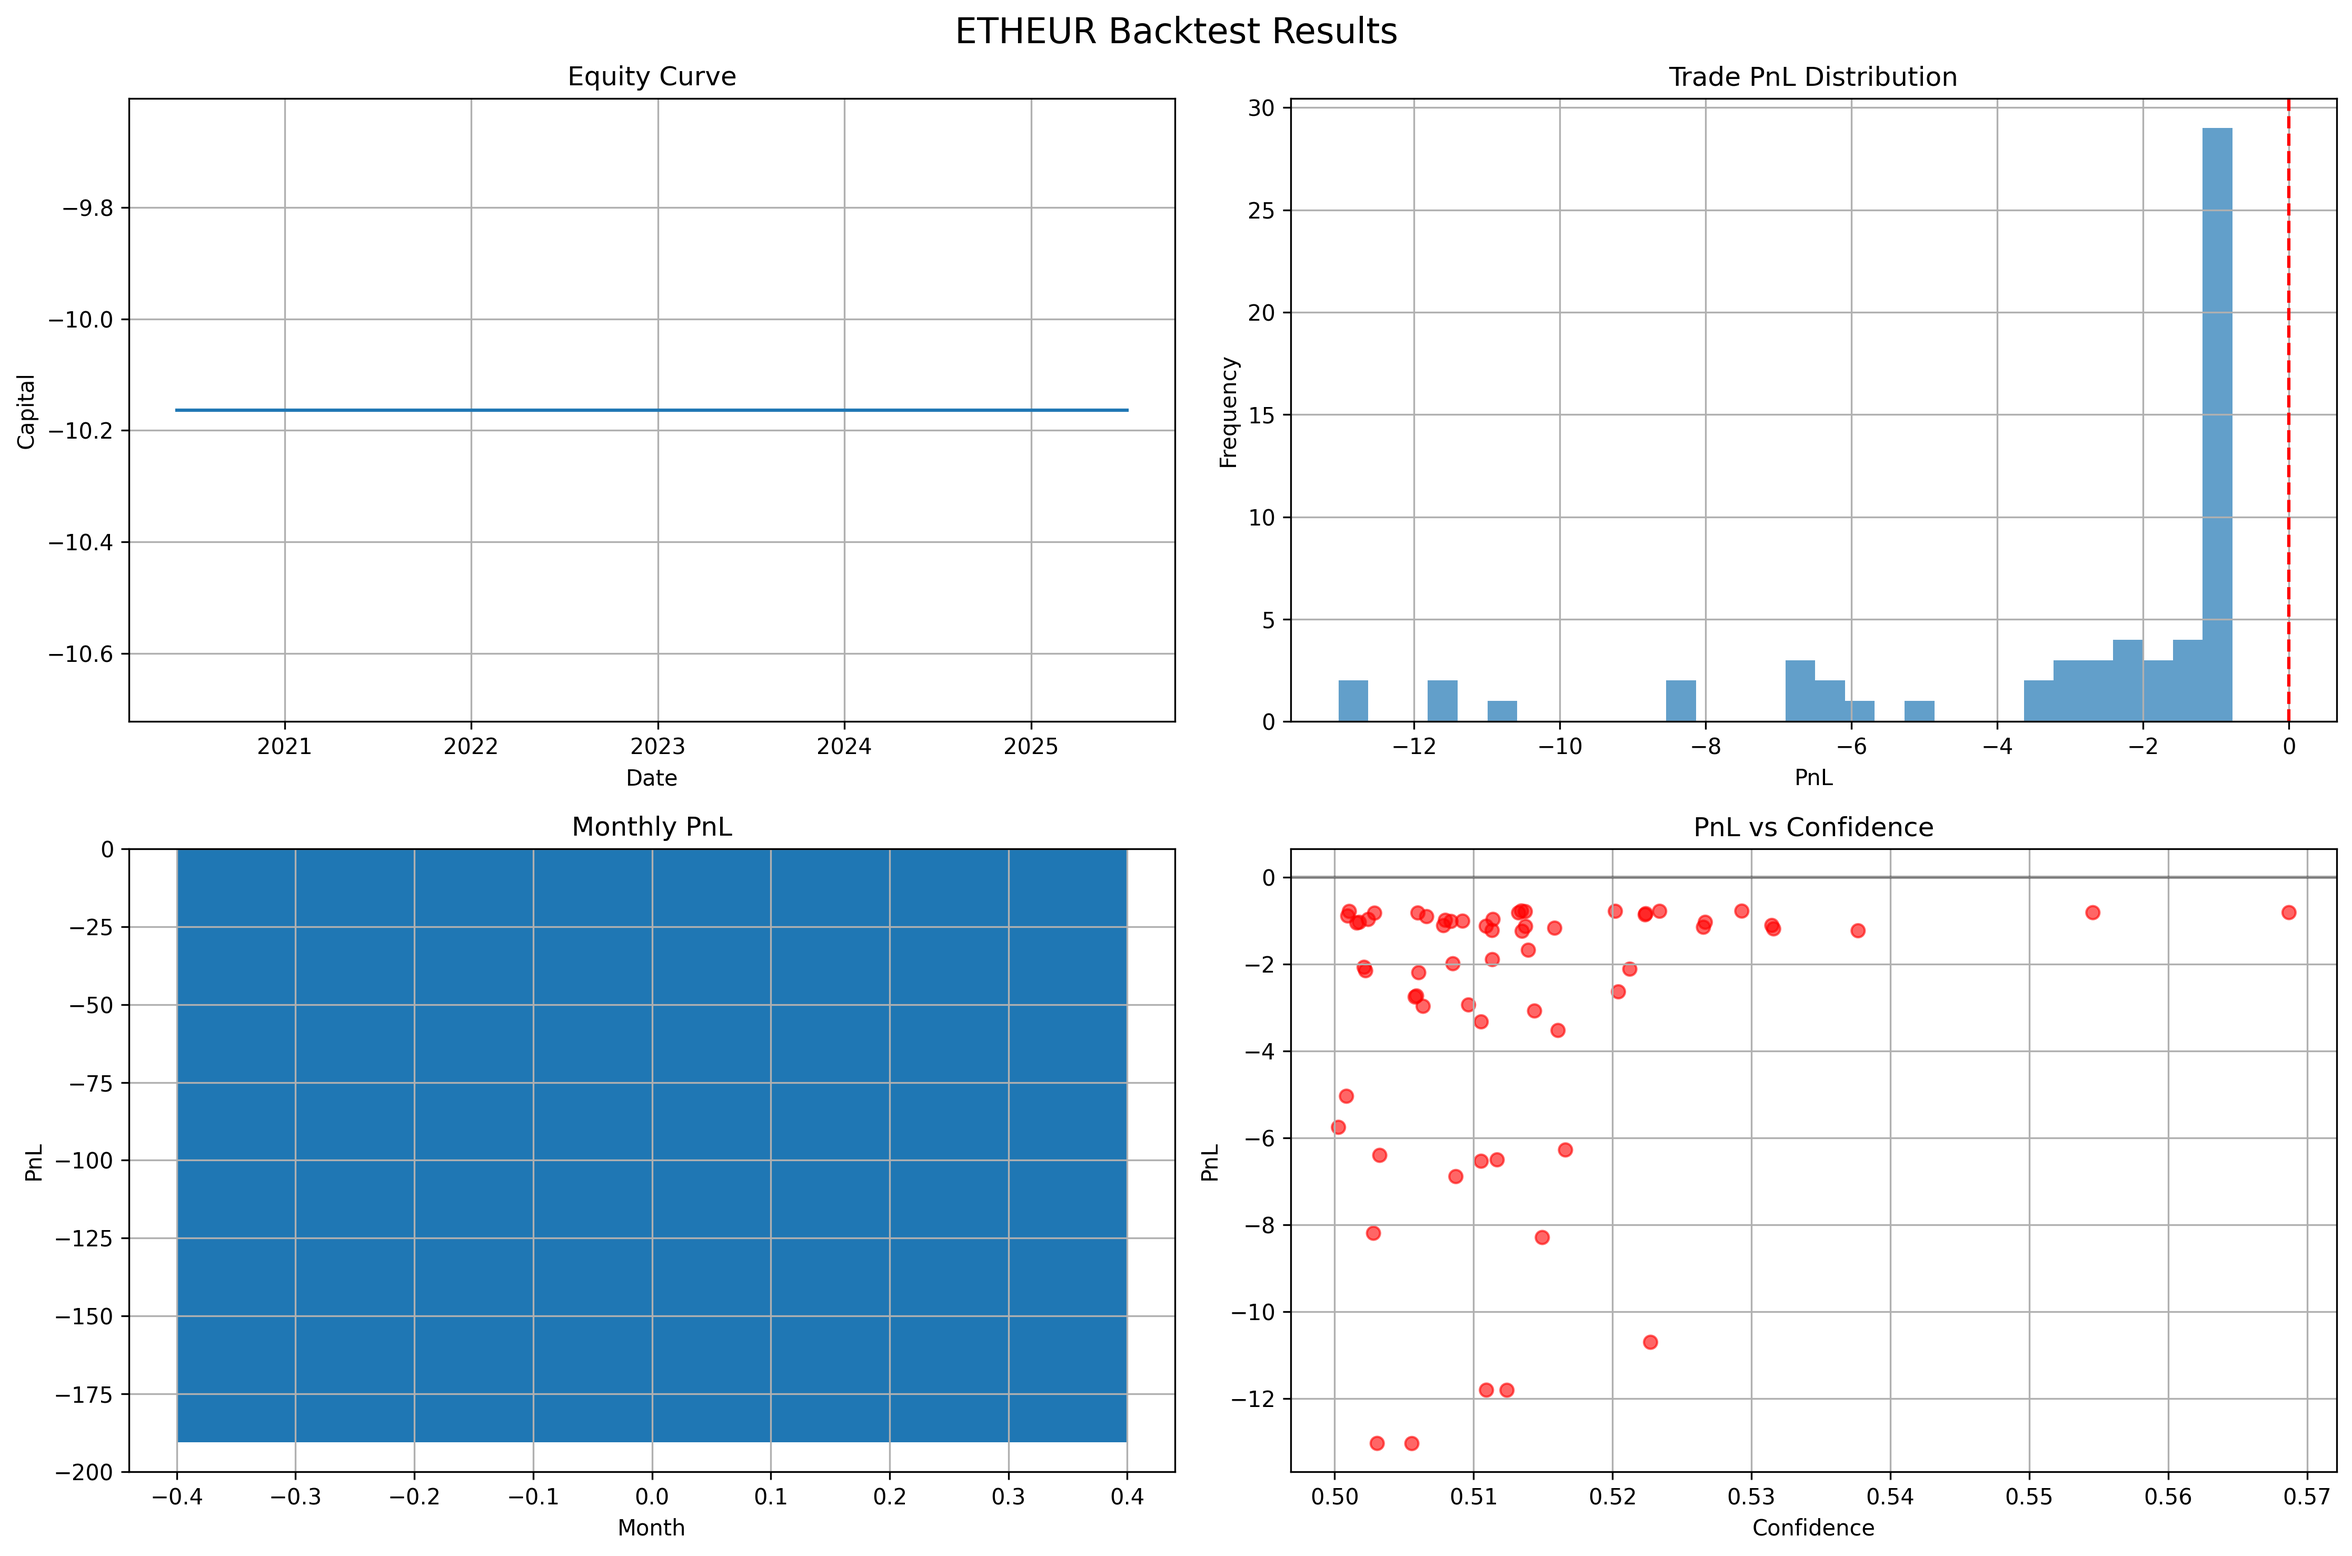
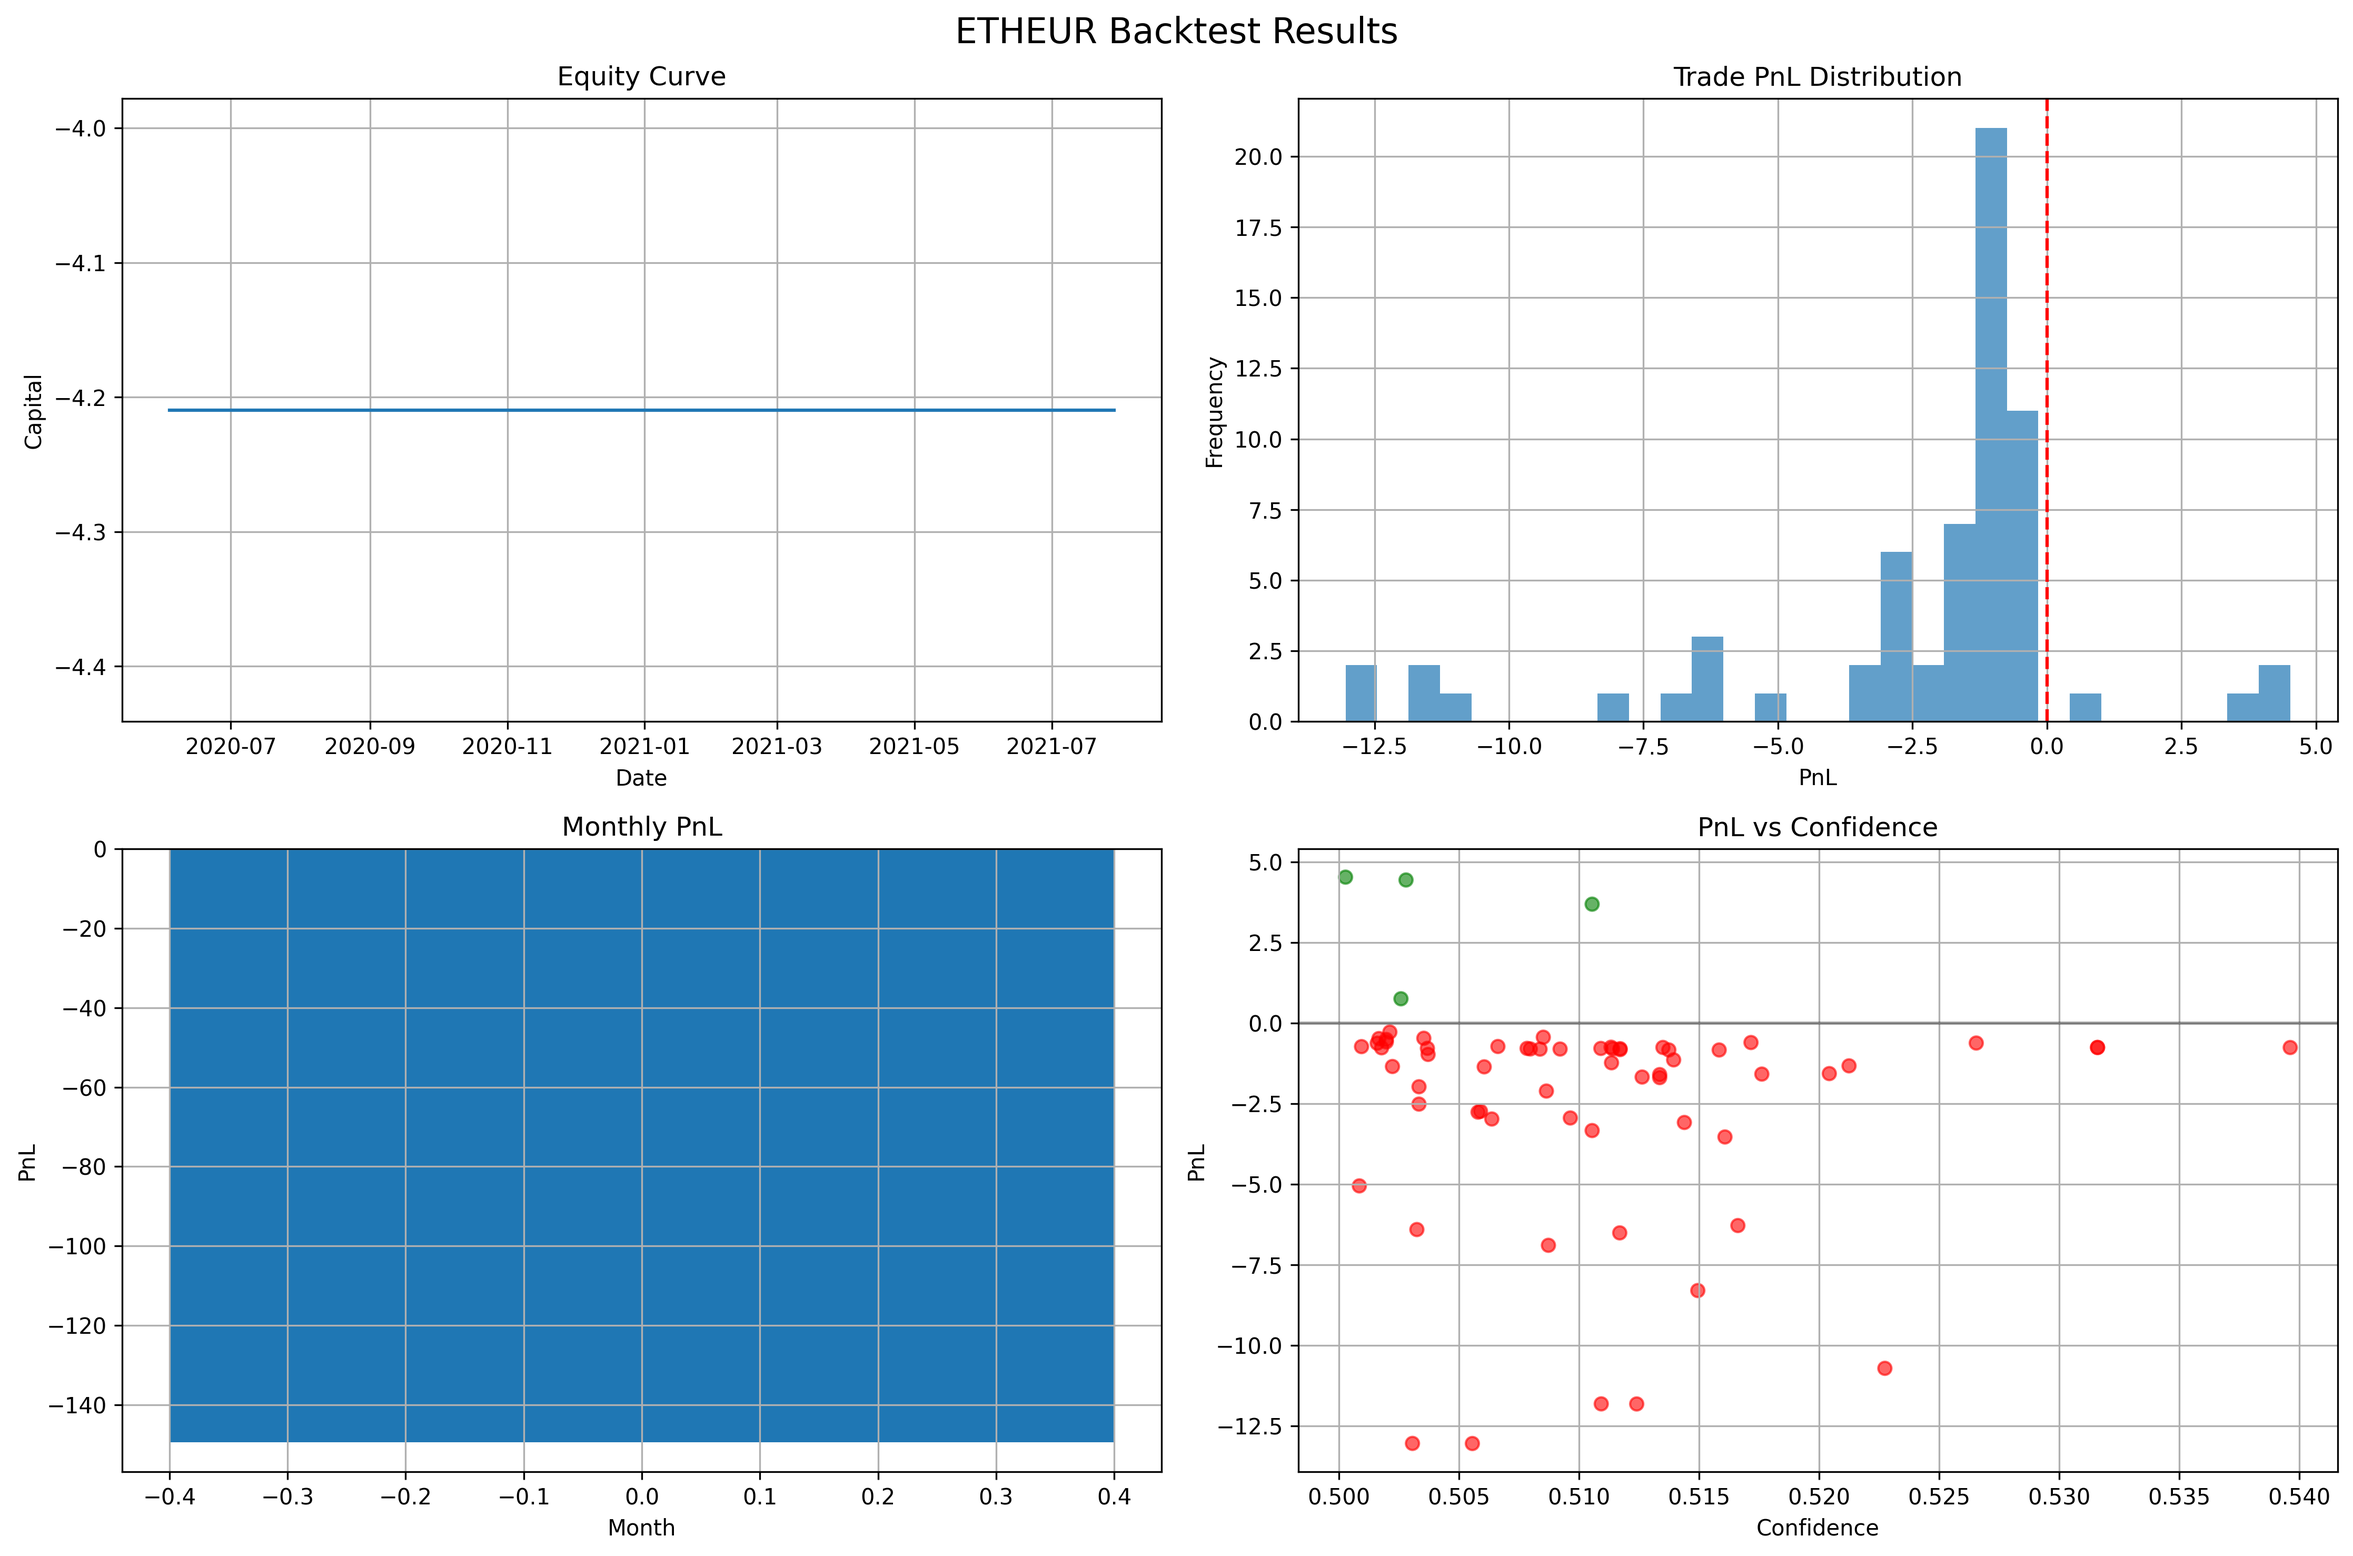
Implement window limitation to use only last 15 windows from database

diff --git a/scripts/backtest_models.py b/scripts/backtest_models.py
@@ -754,8 +754,20 @@ class ModelBacktester:
         return execution_price, slippage_amount, fees
     
     def backtest_symbol(self, symbol: str, progress_callback=None) -> Dict:
-        """Backtest a single symbol using walk-forward validation"""
+        """Backtest a single symbol using walk-forward validation with last 15 windows only"""
         print(f"\nBacktesting {symbol}...")
+        
+        # Get available windows (limited to last 15)
+        available_windows = self._get_available_windows(symbol)
+        if not available_windows:
+            print(f"  ❌ No available windows found for {symbol}")
+            return {
+                'symbol': symbol,
+                'trades': [],
+                'equity_history': [],
+                'performance': {},
+                'final_capital': self.config.initial_capital
+            }
         
         # Load data
         data = self.load_data(symbol)
@@ -769,18 +781,18 @@ class ModelBacktester:
         trades = []
         equity_history = []
         
-        # Walk-forward validation
+        # Walk-forward validation using only available windows
         start_date = data.index[0]
         end_date = data.index[-1]
         
         # Calculate total expected windows for progress tracking
-        total_months = ((end_date - start_date).days // 30)
-        estimated_windows = max(1, (total_months - self.config.train_months) // self.config.slide_months)
+        estimated_windows = len(available_windows)
         
-        window_num = 1
         current_date = start_date
+        window_index = 0  # Index into available_windows list
         
-        while current_date < end_date:
+        while current_date < end_date and window_index < len(available_windows):
+            window_num = available_windows[window_index]
             # Update progress callback if available
             if progress_callback:
                 progress_callback(symbol, window_num, estimated_windows, None, None)
@@ -801,7 +813,7 @@ class ModelBacktester:
             
             if len(test_data) < self.config.sequence_length + 1:
                 current_date += timedelta(days=30 * self.config.slide_months)
-                window_num += 1
+                window_index += 1
                 continue
             
             # Load models for this window
@@ -810,7 +822,7 @@ class ModelBacktester:
             if xgb_model is None:
                 print(f"    XGBoost model not found for window {window_num}, skipping...")
                 current_date += timedelta(days=30 * self.config.slide_months)
-                window_num += 1
+                window_index += 1
                 continue
             
             # Allow running with just XGBoost if LSTM is not available
@@ -833,7 +845,7 @@ class ModelBacktester:
             
             # Move to next window
             current_date += timedelta(days=30 * self.config.slide_months)
-            window_num += 1
+            window_index += 1
         
         # Calculate performance metrics
         performance = self.calculate_performance_metrics(trades, equity_history, symbol)
@@ -1278,6 +1290,47 @@ class ModelBacktester:
         if fc_files:
             return fc_files[0]  # Return the first available feature columns
         return None
+
+    def _get_available_windows(self, symbol: str) -> List[int]:
+        """Get list of available window numbers for a symbol, limited to last 15 windows"""
+        import glob
+        import re
+        
+        # Find all window numbers for this symbol
+        lstm_files = glob.glob(f'models/lstm/{symbol.lower()}_window_*.keras')
+        xgb_files = glob.glob(f'models/xgboost/{symbol.lower()}_window_*.json')
+        
+        # Extract window numbers
+        lstm_windows = []
+        for f in lstm_files:
+            match = re.search(r'window_(\d+)\.keras', f)
+            if match:
+                lstm_windows.append(int(match.group(1)))
+        
+        xgb_windows = []
+        for f in xgb_files:
+            match = re.search(r'window_(\d+)\.json', f)
+            if match:
+                xgb_windows.append(int(match.group(1)))
+        
+        # Find common windows (both LSTM and XGBoost available)
+        common_windows = sorted(set(lstm_windows) & set(xgb_windows))
+        
+        if not common_windows:
+            if self.config.verbose:
+                print(f"    ⚠ No common windows found for {symbol}")
+            return []
+        
+        # Limit to last 15 windows
+        if len(common_windows) <= 15:
+            last_15_windows = common_windows
+        else:
+            last_15_windows = common_windows[-15:]  # Take the last 15 windows
+        
+        if self.config.verbose:
+            print(f"    📊 Available windows for {symbol}: {len(common_windows)} total, using last 15: {last_15_windows}")
+        
+        return last_15_windows
     
     def run_backtest(self, symbols: List[str] = None, progress_callback=None) -> Dict:
         """Run backtest for all specified symbols"""
